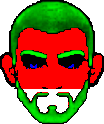
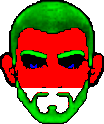
Humano: 4 penteados e 4 barbas em verde-chroma; cabelo vale acima da cabeca do boneco

diff --git a/tools/arte/importar_novas.py b/tools/arte/importar_novas.py
@@ -740,7 +740,8 @@ def importar_raca(race, cfg, arquivos, altura=600):
         heads['apagar']['barba'][key] = _camada(z, rosto[key], f'cabeca_{race}_apagar_barba__{key}.png')
         if key == race:                                     # penteado: apaga a cabeca do boneco acima do nariz
             heads['apagar']['cabelo'] = _camada(z, op & (yy < nariz), f'cabeca_{race}_apagar_cabelo.png')
-    pc = dict(cfg); pc['cabelo'] = dict(cfg['cabelo'], y=[0, cab['mechas_y'] if sm else cab['queixo'] + 0.02])  # na peca, a barba conta como cabelo
+    # na peca, a barba conta como cabelo; em cima vale acima do boneco (coque e moicano mais altos que a cabeca)
+    pc = dict(cfg); pc['cabelo'] = dict(cfg['cabelo'], y=[-0.5, cab['mechas_y'] if sm else cab['queixo'] + 0.02])
     for key, _ in arquivos:
         if not key.startswith(('cabelo:', 'barba:')):
             continue
